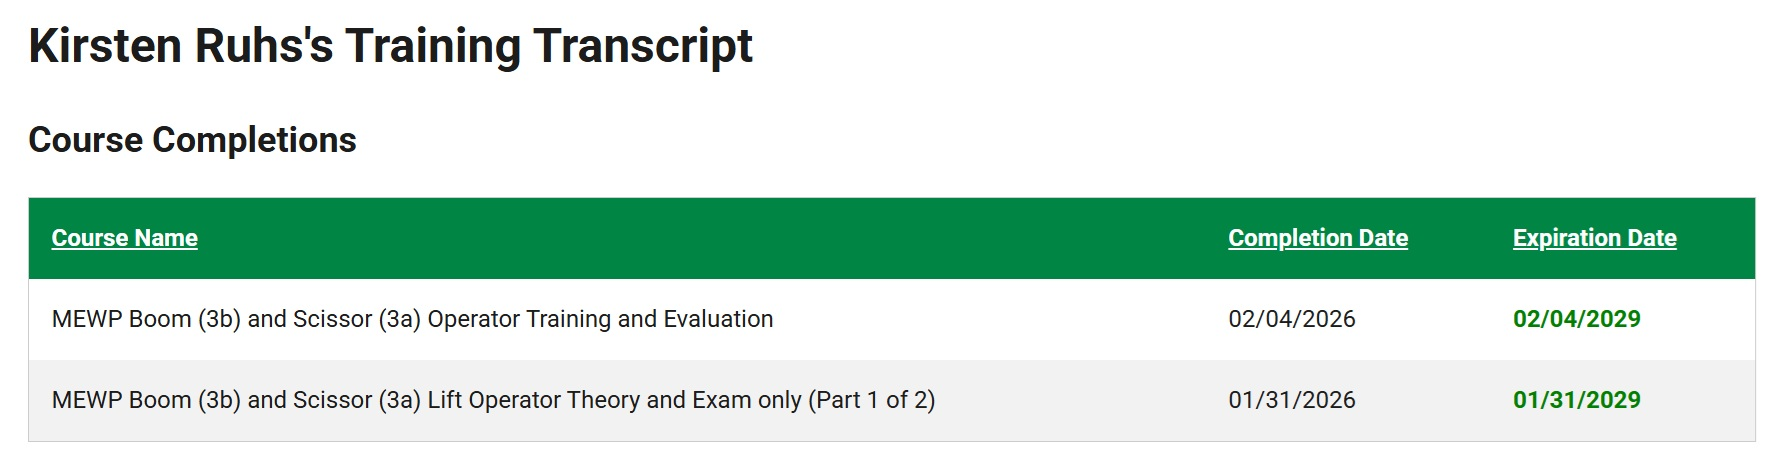
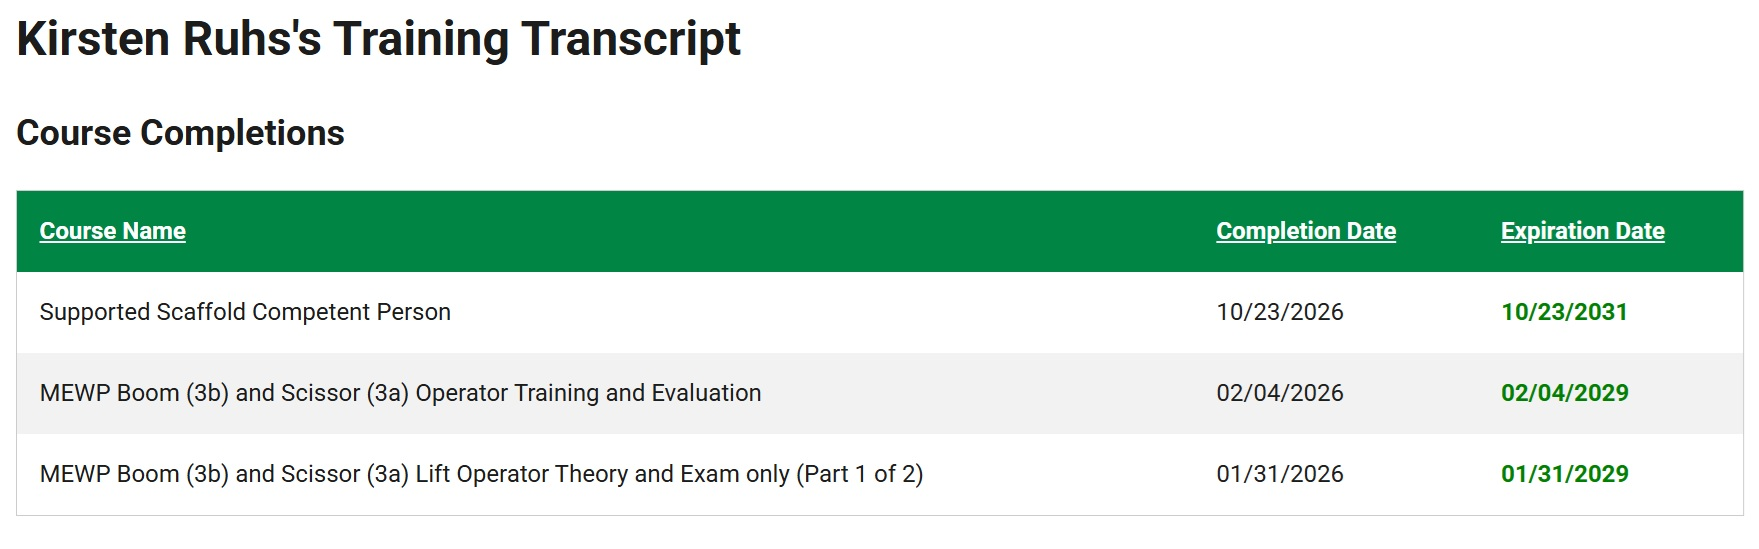
updated Sunbelt Supported Scaffold Competent Person certifications

diff --git a/index.html b/index.html
@@ -355,10 +355,13 @@
                     <div class="team-avatar"><img src="/images/team/mes.jpg"
                             data-srcs='["/images/team/mes.jpg","/images/team/marc.jpg"]' alt="Marc Seinfeld"></div>
                     <div class="name-cert-row">
+                        <a class="cert-badge" href="/credentials.html#certs" aria-label="Marc certifications">
+                            <img src="/images/certs/lst.png" alt="Marc certification badge">
+                        </a>
                         <h3>Marc Seinfeld</h3>
                         <span class="cert-badges">
-                            <a class="cert-badge" href="/credentials.html#certs" aria-label="Marc certifications">
-                                <img src="/images/certs/lst.png" alt="Marc certification badge">
+                            <a class="cert-badge" href="/credentials.html#certs" aria-label="Marc Sunbelt certification">
+                                <img src="/images/certs/sunbelt.jpg" alt="Marc Sunbelt certification badge">
                             </a>
                         </span>
                     </div>
